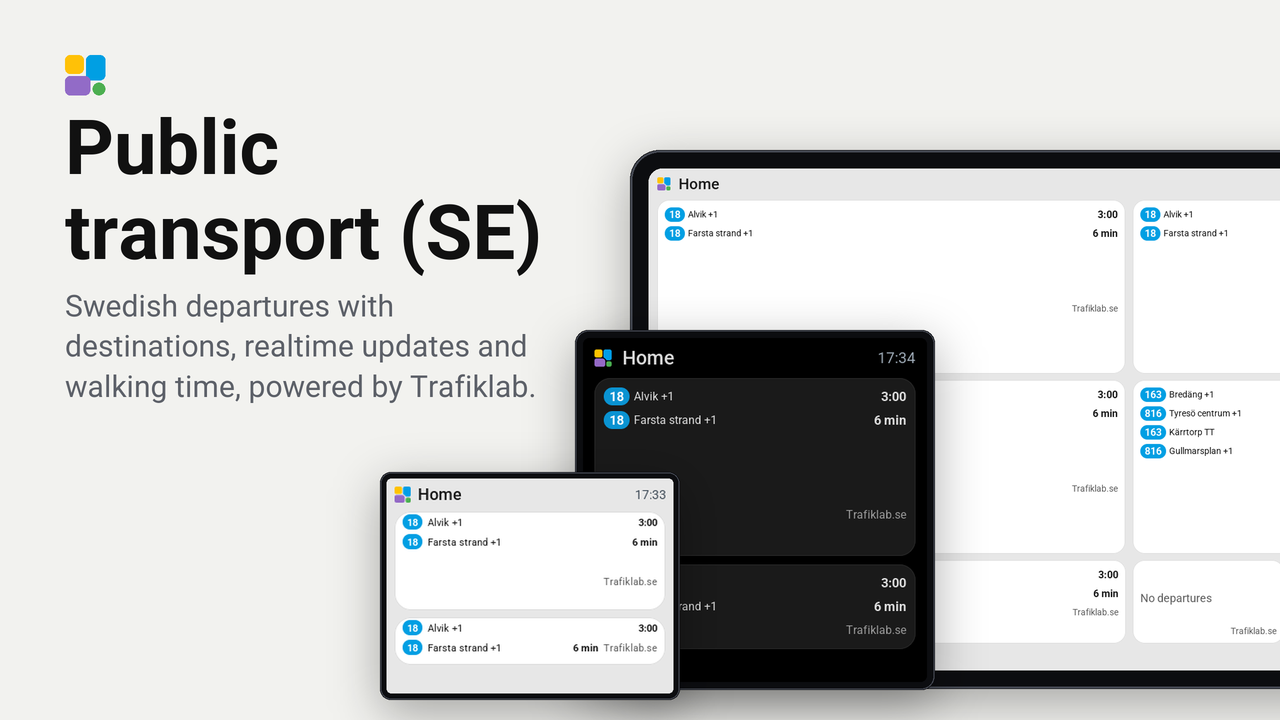
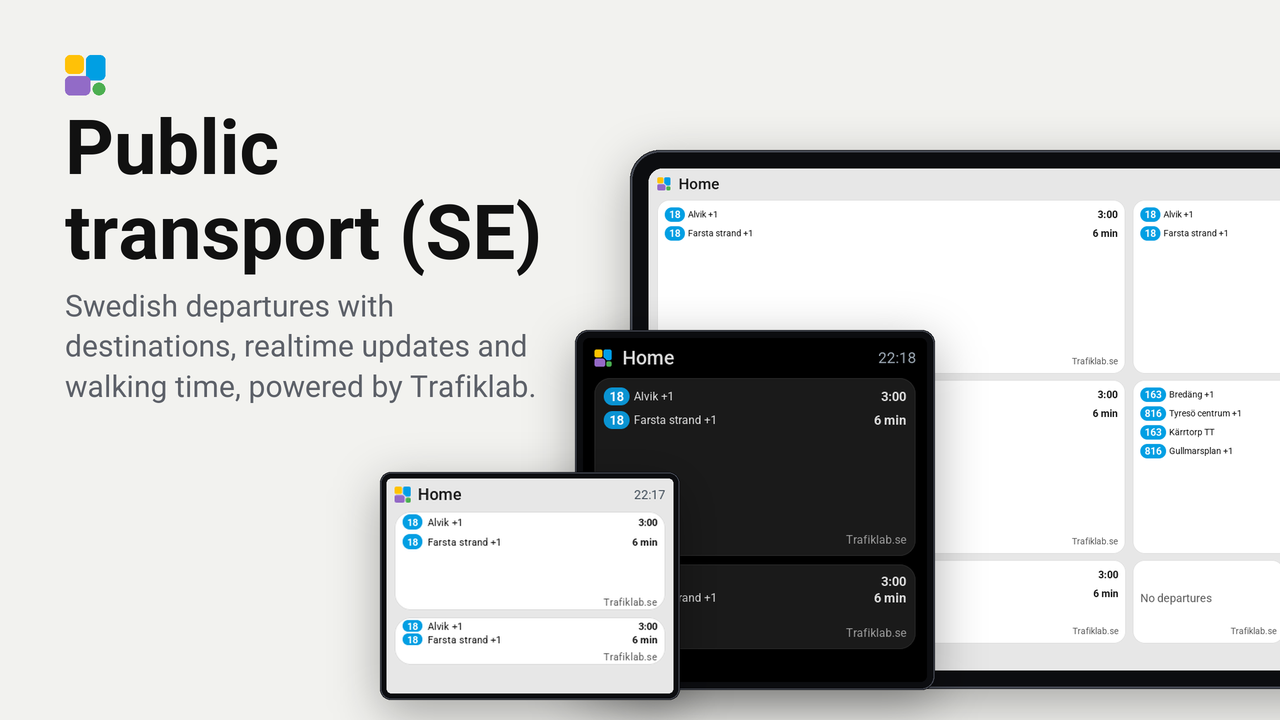
Keep departure times aligned and upgrade CI to Node.js 24
Release 0.1.3 with a separate Trafiklab credit below three compact departure rows on Guition 1x3. Update preview coverage, documentation and store image, and migrate GitHub Actions to Node.js 24-compatible versions.

diff --git a/components/sweden_public_transport/sweden_public_transport.cpp b/components/sweden_public_transport/sweden_public_transport.cpp
@@ -28,7 +28,7 @@ class NextTile : public tessera::Tile {
     width_ = c.width;
     // Wide cards use a list even in a one-column screen grid.
     list_ = c.columns >= 2 || c.width >= ui::px(280);
-    height_ = list_ ? c.height : c.height - ui::line_height(Font::BODY) - ui::px(3);
+    height_ = c.height - ui::line_height(Font::BODY) - ui::px(list_ ? 1 : 3);
     credit_width_ = ui::text_width(plugin_->text("attribution"), Font::BODY);
     attribution_ = ui::label(c.parent, Font::BODY, theme::MUTED);
     lv_obj_set_size(attribution_, credit_width_, ui::line_height(Font::BODY));
@@ -40,6 +40,15 @@ class NextTile : public tessera::Tile {
     head_ = std::max(ui::line_height(Font::TITLE), ui::line_height(Font::BODY)) + ui::px(4);
     gap_ = ui::px(ui::large() ? 8 : 5);
     if (list_) {
+      // Tighten vertical spacing only when it preserves another departure above the separate source credit.
+      const int compact_head = std::max(ui::line_height(Font::TITLE), ui::line_height(Font::BODY));
+      const int compact_gap = ui::px(2);
+      const int regular_rows = (height_ + gap_) / (head_ + gap_);
+      const int compact_rows = (height_ + compact_gap) / (compact_head + compact_gap);
+      if (regular_rows < 3 && compact_rows > regular_rows) {
+        head_ = compact_head;
+        gap_ = compact_gap;
+      }
       const int row = head_ + gap_;
       rows_.resize(std::max(1, std::min(6, (height_ + gap_) / row)));
       for (size_t i = 0; i < rows_.size(); ++i) make_row(rows_[i], c.parent, static_cast<int>(i) * row);
@@ -130,18 +139,13 @@ class NextTile : public tessera::Tile {
     lv_obj_set_pos(r.badge, 0, r.y);
     lv_obj_center(r.number);
     const int x = shown ? badge_w + ui::px(6) : 0;
-    // Share the last departure row instead of reserving a whole footer row.
-    const bool credit_row = list_ && &r == &rows_.back();
-    const int row_right = width_ - (credit_row ? credit_width_ + ui::px(6) : 0);
-    if (credit_row)
-      lv_obj_set_pos(attribution_, width_ - credit_width_, r.y + (head_ - ui::line_height(Font::BODY)) / 2);
-    int right = row_right;
+    int right = width_;
     if (r.when) {
       const int when_w = when.empty() ? 0 : ui::text_width(when, Font::TITLE) + ui::px(2);
       ui::set_text(r.when, when);
       lv_obj_set_size(r.when, std::max(1, when_w), ui::line_height(Font::TITLE));
-      lv_obj_set_pos(r.when, row_right - when_w, r.y + (head_ - ui::line_height(Font::TITLE)) / 2);
-      right = row_right - when_w - (when_w ? ui::px(6) : 0);
+      lv_obj_set_pos(r.when, width_ - when_w, r.y + (head_ - ui::line_height(Font::TITLE)) / 2);
+      right = width_ - when_w - (when_w ? ui::px(6) : 0);
     }
     ui::set_text(r.to, to);
     lv_obj_set_size(r.to, std::max(1, right - x), ui::line_height(Font::BODY));

diff --git a/README.md b/README.md
@@ -32,7 +32,7 @@ Both examples show both directions. Blåsut's stop group also includes buses, so
 - Walking time hides departures you cannot reach. The countdown still shows time until departure, not time to leave home.
 - Canceled departures are omitted. Empty results say “No departures”; this covers the API's next 60 minutes only.
 - “Old data” means the last successful response is being shown after a fetch failure. The source credit alternates this warning and the data attribution.
-- The compact source credit shows Trafiklab.se in the smallest theme text size. On wide tiles it shares the last departure row. The editor's simplified preview does not reproduce every screen annotation.
+- The compact source credit shows Trafiklab.se in the smallest theme text size. It sits below the departures, keeping all departure times aligned. Row spacing tightens where needed to fit three departures plus the credit on Guition 1×3. The editor's simplified preview does not reproduce every screen annotation.
 
 ## Requests and limits
 
@@ -56,7 +56,7 @@ The plugin does not read Home Assistant entities or call Home Assistant actions.
 ## Data and license
 
 Data from [Trafiklab.se](https://www.trafiklab.se/api/our-apis/trafiklab-realtime-apis/timetables/), under [CC BY 4.0](https://creativecommons.org/licenses/by/4.0/). The plugin filters and reformats the data into countdowns.
-Trafiklab requires source attribution on screens and website widgets displaying this data; see the [Timetables attribution requirement](https://www.trafiklab.se/api/our-apis/trafiklab-realtime-apis/timetables/#license). This is why the tile retains a visible “Trafiklab.se” credit. A separate full-height footer row is our layout choice, not a requirement: wide tiles share the last departure row with a compact credit. Keep attribution when adapting the display. This README links the data source and license and explains the transformation above.
+Trafiklab requires source attribution on screens and website widgets displaying this data; see the [Timetables attribution requirement](https://www.trafiklab.se/api/our-apis/trafiklab-realtime-apis/timetables/#license). This is why the tile retains a visible “Trafiklab.se” credit. The exact placement is our layout choice, not a requirement: the compact credit sits below the departure rows. Keep attribution when adapting the display. This README links the data source and license and explains the transformation above.
 
 Plugin code is MIT licensed. The tile adapts Max Gramser's MIT-licensed `ov_departures`; its copyright and license are preserved in NOTICE.
 

diff --git a/README.sv.md b/README.sv.md
@@ -31,7 +31,7 @@ Blåsuts hållplatsområde innehåller även bussar, så välj uttryckligen Tunn
 - `TT` betyder tidtabellstid utan realtidsprognos.
 - Gångtiden filtrerar bort avgångar du inte hinner till; nedräkningen visar tiden till avgång, inte tiden tills du behöver gå.
 - Inställda avgångar visas inte. API:et visar kommande 60 minuter.
-- Källhänvisningen Trafiklab.se använder temats minsta textstorlek och delar sista avgångsraden i breda rutor.
+- Källhänvisningen Trafiklab.se använder temats minsta textstorlek och ligger separat under avgångarna, så att alla tider ligger på samma lodräta linje.
 - Vid hämtningsfel visas tidigare data med varningen ”Gamla tider”, växelvis med källhänvisningen Trafiklab.se.
 
 Varje hållplats hämtas var 60:e sekund och delar svar mellan rutorna. Två hållplatser dygnet runt motsvarar cirka 89 280 avgångsanrop på 31 dagar, plus sökningar, omstarter och eventuella återförsök. Namnsökningar cachas ett dygn per söktext. Realtime Brons har enligt Trafiklab 100 000 anrop/månad; standarden ryms inom den kvoten för två hållplatser. Fler hållplatser eller andra appar med samma nyckel behöver räknas med.
@@ -44,7 +44,7 @@ Första versionen är en beta. Se engelska README för tekniska begränsningar o
 
 Trafiklab kräver källhänvisning på skärmar och webbwidgets som visar deras data. Därför behåller pluginen texten **Trafiklab.se** på skärmen. Se [Trafiklabs villkor för Timetables](https://www.trafiklab.se/api/our-apis/trafiklab-realtime-apis/timetables/#license). Data omfattas av [CC BY 4.0](https://creativecommons.org/licenses/by/4.0/); pluginen filtrerar och omformaterar uppgifterna till avgångar med nedräkning.
 
-Kravet innebär inte att en hel rad måste reserveras för texten. Vi använder temats minsta textstorlek och delar sista avgångsraden i breda rutor. Behåll källhänvisningen om du anpassar layouten. Pluginens egen kod har MIT-licens; datans licens är separat.
+Kravet innebär inte att en hel rad måste reserveras för texten. Vi använder temats minsta textstorlek och ligger separat under avgångarna, så att alla tider ligger på samma lodräta linje. Behåll källhänvisningen om du anpassar layouten. Pluginens egen kod har MIT-licens; datans licens är separat.
 
 ## Automatiska kontroller med GitHub Actions
 

diff --git a/VALIDATION.md b/VALIDATION.md
@@ -1,3 +1,11 @@
+# Validation of 0.1.3
+
+- Fourteen mapper tests and API 0.10 manifest validation passed.
+- Final layout rendered on all four default boards, including additional 1x3 grids: zero warnings. The preview run started before the version-only bump from 0.1.2 to 0.1.3.
+- Guition 1x3 bus preview confirms three departure rows, aligned times and separate attribution below them.
+- GitHub Actions now use checkout v5, setup-python v6 and upload-artifact v6; all declare Node.js 24. YAML and shell syntax checked locally; hosted CI must run after push.
+- No physical firmware installation performed.
+
 # Validation of 0.1.2
 
 - Manifest validation against API 0.10: passed.

diff --git a/CHANGELOG.md b/CHANGELOG.md
@@ -1,5 +1,10 @@
 # Changelog
 
+## 0.1.3
+- Keep departure times aligned with a separate source credit below compact rows.
+- Upgrade GitHub Actions to Node.js 24 versions.
+- Rebuild and install the screen firmware for the layout update.
+
 ## 0.1.2
 - Rename the plugin to Public transport (SE) in the plugin picker.
 - Tessera 0.4.88 cannot clear a dynamic choice: create a new tile to return to all lines after selecting a filter.
